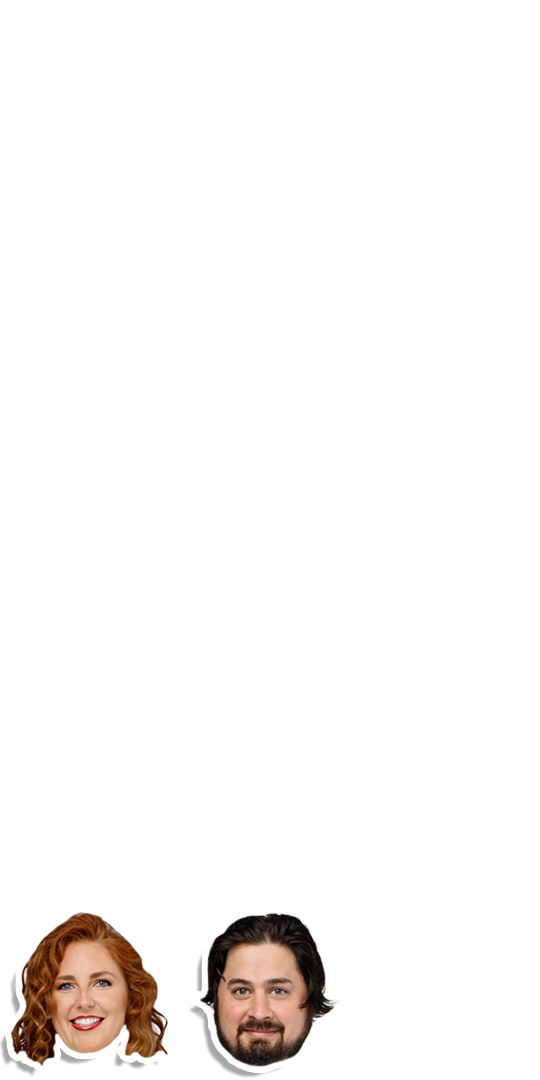
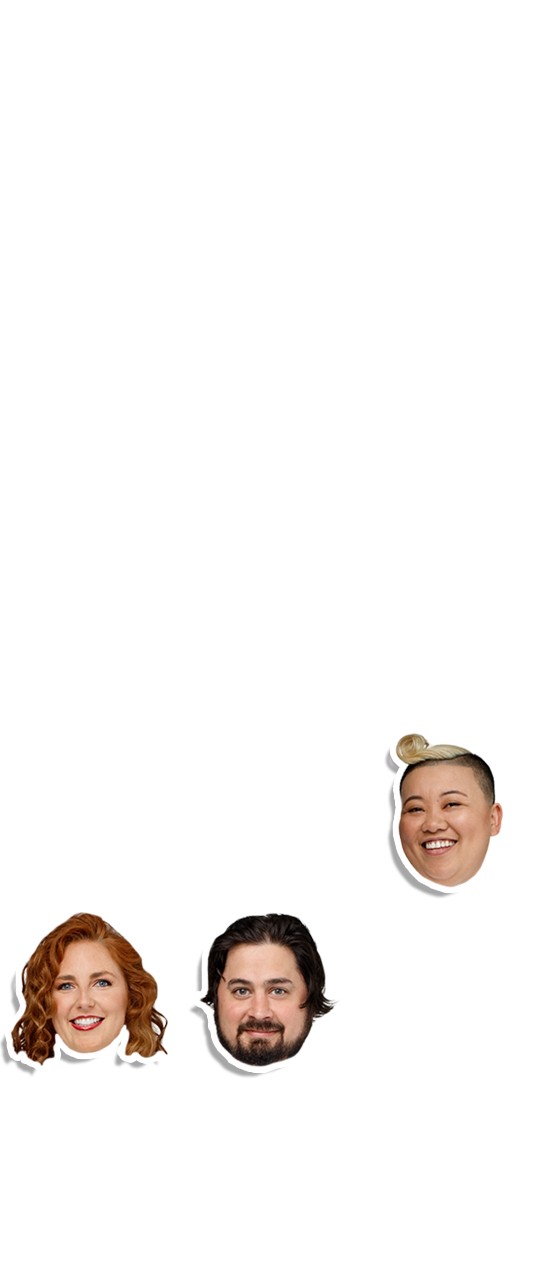
added new episode info

Changed region(s): [[0.0, 0.7028, 0.3259, 1.0], [0.3556, 0.7028, 0.6222, 1.0], [0.7111, 0.55, 0.9481, 0.7028]]

diff --git a/css/main.css b/css/main.css
@@ -1,1 +1,1 @@
-html,body,div,span,applet,object,iframe,h1,h2,h3,h4,h5,h6,p,blockquote,pre,a,abbr,acronym,address,big,cite,code,del,dfn,em,img,ins,kbd,q,s,samp,small,strike,strong,sub,sup,tt,var,b,u,i,center,dl,dt,dd,ol,ul,li,fieldset,form,label,legend,table,caption,tbody,tfoot,thead,tr,th,td,article,aside,canvas,details,embed,figure,figcaption,footer,header,hgroup,menu,nav,output,ruby,section,summary,time,mark,audio,video{margin:0;padding:0;border:0;font-size:100%;font:inherit;vertical-align:baseline}article,aside,details,figcaption,figure,footer,header,hgroup,menu,nav,section{display:block}body{line-height:1}ol,ul{list-style:none}blockquote,q{quotes:none}blockquote:before,blockquote:after,q:before,q:after{content:'';content:none}table{border-collapse:collapse;border-spacing:0}*,*:after,*:before{-moz-box-sizing:border-box;-webkit-box-sizing:border-box;box-sizing:border-box}html{font-size:100%;-webkit-text-size-adjust:none}body{text-rendering:optimizeLegibility;-webkit-font-smoothing:antialiased;font-family:'Helvetica Neue',Helvetica,Arial,sans-serif;font-size:18px;line-height:1.4;color:white;background:#333}::-moz-selection{background-color:#ba55d3;color:white}::selection{background-color:#ba55d3;color:white}h1,p{margin-bottom:20px}h1{font-weight:bold}a{display:inline-block;text-decoration:none;color:#0ff}p a{border-bottom:1px dotted transparent;}p a:hover{border-bottom:1px dotted #0ff}p{margin:0 0 20px}em{font-style:italic}img:not(.avatar){width:100%;max-width:100%}.footnote{font-size:14px;color:rgba(255,255,255,0.6)}.cf:before,.grid:before,.cf:after,.grid:after{content:" ";display:table}.cf:after,.grid:after{clear:both}.nav-main{height:45px;position:relative;background:#333;}.nav-main a,.nav-main label{color:white}.nav-main .nav-home{margin:10px 20px;float:left}.nav-main input.menu-toggle{visibility:hidden;position:absolute;left:-100%}.nav-main label{padding:10px 20px;float:right;background:#800080;border-left:1px solid rgba(255,255,255,0.2);cursor:pointer}.nav-main .nav-seasons{display:none;position:absolute;top:45px;left:0;z-index:100}.nav-main .menu-toggle:checked ~ .nav-seasons{display:block}.nav-main .nav-seasons{background-image:linear-gradient(to right,#4682b4,#c71585)}.nav-seasons{width:100%;background-image:linear-gradient(to right,#4682b4,#008b8b);border-top:1px solid rgba(255,255,255,0.3);border-bottom:1px solid rgba(255,255,255,0.3);box-shadow:0 3px 3px rgba(0,0,0,0.2);}.nav-seasons li{float:left;border-right:1px solid rgba(255,255,255,0.3);}.nav-seasons li a{padding:10px;display:block;color:white;}.nav-seasons li a:hover{background:rgba(0,0,0,0.1)}.nav-seasons li span{display:block}.nav-seasons li span:first-of-type{font-size:24px;font-weight:bold}.nav-seasons li span:nth-of-type(2){font-size:15px}@media screen and (max-width:400px){.nav-seasons li{width:25%;}.nav-seasons li:nth-child(-n+12){border-bottom:1px solid rgba(255,255,255,0.3)}.nav-seasons li:nth-child(4),.nav-seasons li:nth-child(8),.nav-seasons li:nth-child(12){border-right:none}}@media screen and (min-width:401px) and (max-width:650px){.nav-seasons li{width:20%;}.nav-seasons li:nth-child(-n+10){border-bottom:1px solid rgba(255,255,255,0.3)}.nav-seasons li:nth-child(5),.nav-seasons li:nth-child(10){border-right:none}}@media screen and (min-width:651px) and (max-width:1030px){.nav-seasons li{width:14.28%;}.nav-seasons li:nth-child(-n+7){border-bottom:1px solid rgba(255,255,255,0.3)}.nav-seasons li:nth-child(7){border-right:none}}@media screen and (min-width:1031px){.nav-seasons li{width:7.69%;}.nav-seasons li:last-child{border-right:none}}@media screen and (max-width:700px){.grid{padding-bottom:40px}}@media screen and (min-width:701px){.grid-item{margin:0 0 30px;padding:0 15px;float:left}.grid-sm-1{width:100%}.grid-sm-2{width:50%}.grid-sm-3{width:33.33%}}@media screen and (min-width:1001px){.grid-item{margin:0 0 50px;padding:0 25px}.grid-lg-2{width:50%}.grid-lg-3{width:33.33%}.grid-lg-3-1{width:66.66%}.grid-lg-4{width:25%}.grid-lg-5{width:20%}}.intro{margin:0 auto 30px;padding:30px 15px;background:rgba(0,0,0,0.1);text-align:center;}.intro h1{font-size:45px;}.intro h1 span{display:block}.intro h1 span:last-child{font-size:30px}.intro h2{margin-bottom:20px;font-size:24px}.intro p{max-width:500px;margin-left:auto;margin-right:auto}@media screen and (max-width:500px){.intro h1{font-size:35px;}.intro h1 span:last-child{font-size:20px}}@media screen and (min-width:701px) and (max-width:1000px){.intro{margin-bottom:60px}}@media screen and (min-width:1001px){.intro{margin-bottom:100px}}@media screen and (min-width:701px){.avatar{width:90px;height:90px}}@media screen and (max-width:700px){.avatar{width:70px;height:70px}}.icon{background:no-repeat left top;}.icon.woman{background-image:url("../images/woman.svg")}.icon.man{background-image:url("../images/man.svg")}.stat .number{position:relative;font-weight:bold;}.stat .number span{display:inline-block}.stat .number span + span{margin-left:15px}.stat .number .roster{padding-left:50px;position:absolute;right:0;}.stat .number .roster .avatar{float:right}.stat .name{margin-left:10px;display:inline-block;position:absolute;background:rgba(0,0,0,0.2);border-radius:3px;font-weight:normal;line-height:1;}.stat .name .avatar{display:block;position:absolute}@media screen and (max-width:700px){.stat:not(.person){padding:10px 0;border-bottom:1px solid rgba(255,255,255,0.5);}.stat:not(.person) h2{padding-top:10px;float:left}.stat:not(.person) .number{text-align:right;font-size:30px}.stat:not(.person) .woman,.stat:not(.person) .man{background-position:left 9px;background-size:auto 23px;padding-left:23px}.stat.person h2{padding:20px 0 5px;border-bottom:1px solid rgba(255,255,255,0.5)}.stat.person .number{font-size:55px;}.stat.person .number .roster{top:8px}.stat.person .name{padding:8px 40px 8px 10px;top:25px;right:30px;font-size:15px;}.stat.person .name .avatar{top:-15px;right:-35px}}@media screen and (min-width:701px){.stat h2{border-bottom:1px solid rgba(255,255,255,0.5)}.stat .number{font-size:85px;}.stat .number .roster{top:15px}.stat .name{padding:8px 45px 6px 10px;top:50px;right:40px;font-size:16px;}.stat .name .avatar{top:-32px;right:-45px}.stat .woman,.stat .man{background-position:left center;background-size:auto 50px;padding-left:40px}}.featured{padding:30px 15px 20px;background:rgba(0,0,0,0.1);text-align:center;clear:left;}.featured .number,.featured .phrase{font-weight:bold}.featured .phrase{margin-top:5px;margin-bottom:20px;font-size:40px;line-height:1.2}.featured.restaurant-wars .avatar{margin-bottom:15px}.featured.phrase-list{background:rgba(255,255,255,0.1);border-top:1px solid rgba(255,255,255,0.2);border-bottom:1px solid rgba(255,255,255,0.2);}.featured.phrase-list .phrase{margin-bottom:40px}.featured.phrase-list p{margin-bottom:8px;padding:5px 45px 5px 10px;position:relative;background:rgba(0,0,0,0.05);border-radius:3px;}.featured.phrase-list p span{position:absolute;top:50%;-webkit-transform:translateY(-50%);-moz-transform:translateY(-50%);transform:translateY(-50%);right:10px;font-size:12px;font-weight:bold}@media screen and (max-width:700px){.featured{margin:30px 0;}.featured .number{font-size:40px}.featured .phrase{font-size:25px}.featured.phrase-list .grid-item{margin-bottom:0}}@media screen and (min-width:701px){.featured{margin:0 0 80px;}.featured .number{font-size:85px}.featured.phrase-list .grid-item{margin-bottom:20px}}.roster .avatar{margin:0 -5px;position:relative;z-index:2}.roster .winner{display:inline-block;position:relative;}.roster .winner:before{width:100%;display:block;position:absolute;left:0;content:'WINNER!';z-index:1;font-size:11px;font-weight:bold;letter-spacing:1px;color:white}h2 + .roster{margin-top:15px}@media screen and (max-width:390px){.stat.roster-lg{min-height:190px}}@media screen and (max-width:700px){.roster .winner:before{top:75px}}@media screen and (min-width:701px){.roster .winner:before{top:92px}}@media screen and (min-width:701px) and (max-width:1000px){.stat.roster-lg{min-height:240px}}.ranking{list-style:none;}.ranking li{width:100%;margin:0 0 15px;padding:25px 0;padding-left:60px;position:relative;background-image:linear-gradient(to right,rgba(0,0,0,0) 20px,rgba(0,0,0,0.2) 20px);border-radius:0 3px 3px 0;}.ranking li .chef{width:90px;height:90px;position:absolute;top:-10px;background:no-repeat;background-size:270px auto}.ranking li:nth-child(1) .chef{background-position:0 0}.ranking li:nth-child(2) .chef{background-position:-90px 0}.ranking li:nth-child(3) .chef{background-position:-180px 0}.ranking li:nth-child(4) .chef{background-position:0 -90px}.ranking li:nth-child(5) .chef{background-position:-90px -90px}.ranking li:nth-child(6) .chef{background-position:-180px -90px}.ranking li:nth-child(7) .chef{background-position:0 -180px}.ranking li:nth-child(8) .chef{background-position:-90px -180px}.ranking li:nth-child(9) .chef{background-position:-180px -180px}.ranking li:nth-child(10) .chef{background-position:0 -270px}.ranking li:nth-child(11) .chef{background-position:-90px -270px}.ranking li:nth-child(12) .chef{background-position:-180px -270px}.ranking li:nth-child(13) .chef{background-position:0 -360px}.ranking li:nth-child(14) .chef{background-position:-90px -360px}.ranking li:nth-child(15) .chef{background-position:-180px -360px}.ranking li:nth-child(16) .chef{background-position:0 -450px}.ranking li:nth-child(17) .chef{background-position:-90px -450px}.ranking li:nth-child(18) .chef{background-position:-180px -450px}.ranking li:nth-child(19) .chef{background-position:0 -540px}.ranking li:nth-child(20) .chef{background-position:-90px -540px}.ranking li span{display:block;position:relative;}.ranking li span:after{padding:7px 10px;position:absolute;right:5px;top:-6px;font-weight:bold}.ranking li:nth-child(2) span:after{content:'2nd'}.ranking li:nth-child(2) span:after{content:'2nd'}.ranking li:nth-child(3) span:after{content:'3rd'}.ranking li:nth-child(4) span:after{content:'4th'}.ranking li:nth-child(5) span:after{content:'5th'}.ranking li:nth-child(6) span:after{content:'6th'}.ranking li:nth-child(7) span:after{content:'7th'}.ranking li:nth-child(8) span:after{content:'8th'}.ranking li:nth-child(9) span:after{content:'9th'}.ranking li:nth-child(10) span:after{content:'10th'}.ranking li:nth-child(11) span:after{content:'11th'}.ranking li:nth-child(12) span:after{content:'12th'}.ranking li:nth-child(13) span:after{content:'13th'}.ranking li:nth-child(14) span:after{content:'14th'}.ranking li:nth-child(15) span:after{content:'15th'}.ranking li:nth-child(16) span:after{content:'16th'}.ranking li:nth-child(17) span:after{content:'17th'}.ranking li:nth-child(18) span:after{content:'18th'}.ranking li:nth-child(19) span:after{content:'19th'}.ranking li:nth-child(20) span:after{content:'20th'}.ranking li:first-child span:before,.ranking li.fan-fave span:before{width:0;height:0;content:'';position:absolute;right:-10px;top:25px;border-style:solid;border-width:10px 10px 0 0}.ranking li:first-child span:after,.ranking li.fan-fave span:after{right:-10px;font-size:16px;line-height:1}.ranking li:first-child span:before{border-color:#daa520 transparent transparent transparent}.ranking li:first-child span:after{content:'Winner';background:#ffd700;color:#a52a2a}.ranking li.fan-fave span:before{border-color:#4b0082 transparent transparent transparent}.ranking li.fan-fave span:after{content:'Fan Fave';background:#9932cc;color:white}.ranking.current li:nth-child(-n+15){display:none}@media screen and (max-width:700px){.ranking li{padding:15px 0;padding-left:55px;}.ranking li .chef{left:-15px;width:70px;height:70px;background-size:210px auto}.ranking li:nth-child(1) .chef{background-position:0 0}.ranking li:nth-child(2) .chef{background-position:-70px 0}.ranking li:nth-child(3) .chef{background-position:-140px 0}.ranking li:nth-child(4) .chef{background-position:0 -70px}.ranking li:nth-child(5) .chef{background-position:-70px -70px}.ranking li:nth-child(6) .chef{background-position:-140px -70px}.ranking li:nth-child(7) .chef{background-position:0 -140px}.ranking li:nth-child(8) .chef{background-position:-70px -140px}.ranking li:nth-child(9) .chef{background-position:-140px -140px}.ranking li:nth-child(10) .chef{background-position:0 -210px}.ranking li:nth-child(11) .chef{background-position:-70px -210px}.ranking li:nth-child(12) .chef{background-position:-140px -210px}.ranking li:nth-child(13) .chef{background-position:0 -280px}.ranking li:nth-child(14) .chef{background-position:-70px -280px}.ranking li:nth-child(15) .chef{background-position:-140px -280px}.ranking li:nth-child(16) .chef{background-position:0 -350px}.ranking li:nth-child(17) .chef{background-position:-70px -350px}.ranking li:nth-child(18) .chef{background-position:-140px -350px}.ranking li:nth-child(19) .chef{background-position:0 -420px}.ranking li:nth-child(20) .chef{background-position:-70px -420px}}@media screen and (min-width:701px){.ranking li{padding-left:60px;}.ranking li .chef{left:-30px}}footer{padding:40px 20px;background:#333;text-align:center;}footer p{margin-bottom:20px}.p0{padding:0}.m0{margin:0}.center{text-align:center}.left{text-align:left}.bg-dark{background:rgba(0,0,0,0.1)}.bg-light{background:rgba(255,255,255,0.1)}.season{background:linear-gradient(175deg,#008b8b 0,#c71585 100%);padding:20px;}.season.home{background:linear-gradient(170deg,#4682b4 0,#008b8b 50%,#c71585 100%)}.season.glossary,.season.four-oh-four{background:linear-gradient(170deg,#4682b4 0,#008b8b 50%)}.season-01 .ranking li .chef{background-image:url("/images/season-01.png")}.season-02 .ranking li .chef{background-image:url("/images/season-02.png")}.season-03 .ranking li .chef{background-image:url("/images/season-03.png")}.season-04 .ranking li .chef{background-image:url("/images/season-04.png")}.season-05 .ranking li .chef{background-image:url("/images/season-05.png")}.season-06 .ranking li .chef{background-image:url("/images/season-06.png")}.season-07 .ranking li .chef{background-image:url("/images/season-07.png")}.season-08 .ranking li .chef{background-image:url("/images/season-08.png")}.season-09 .ranking li .chef{background-image:url("/images/season-09.png")}.season-10 .ranking li .chef{background-image:url("/images/season-10.png")}.season-11 .ranking li .chef{background-image:url("/images/season-11.png")}.season-12 .ranking li .chef{background-image:url("/images/season-12.png")}.season-13 .ranking li .chef{background-image:url("/images/season-13.png")}.glossary-list{max-width:550px;margin:0 auto 60px;}.glossary-list dt{margin-bottom:10px;font-weight:bold;font-size:20px}.glossary-list dd{margin-bottom:40px}.glossary-list p{margin-left:20px;margin-bottom:20px}.glossary-list ol{list-style:decimal;padding-left:45px;}.glossary-list ol li{margin-bottom:10px}@media screen and (min-width:1001px){.glossary-list{margin-top:-40px}}
+html,body,div,span,applet,object,iframe,h1,h2,h3,h4,h5,h6,p,blockquote,pre,a,abbr,acronym,address,big,cite,code,del,dfn,em,img,ins,kbd,q,s,samp,small,strike,strong,sub,sup,tt,var,b,u,i,center,dl,dt,dd,ol,ul,li,fieldset,form,label,legend,table,caption,tbody,tfoot,thead,tr,th,td,article,aside,canvas,details,embed,figure,figcaption,footer,header,hgroup,menu,nav,output,ruby,section,summary,time,mark,audio,video{margin:0;padding:0;border:0;font-size:100%;font:inherit;vertical-align:baseline}article,aside,details,figcaption,figure,footer,header,hgroup,menu,nav,section{display:block}body{line-height:1}ol,ul{list-style:none}blockquote,q{quotes:none}blockquote:before,blockquote:after,q:before,q:after{content:'';content:none}table{border-collapse:collapse;border-spacing:0}*,*:after,*:before{-moz-box-sizing:border-box;-webkit-box-sizing:border-box;box-sizing:border-box}html{font-size:100%;-webkit-text-size-adjust:none}body{text-rendering:optimizeLegibility;-webkit-font-smoothing:antialiased;font-family:'Helvetica Neue',Helvetica,Arial,sans-serif;font-size:18px;line-height:1.4;color:white;background:#333}::-moz-selection{background-color:#ba55d3;color:white}::selection{background-color:#ba55d3;color:white}h1,p{margin-bottom:20px}h1{font-weight:bold}a{display:inline-block;text-decoration:none;color:#0ff}p a{border-bottom:1px dotted transparent;}p a:hover{border-bottom:1px dotted #0ff}p{margin:0 0 20px}em{font-style:italic}img:not(.avatar){width:100%;max-width:100%}.footnote{font-size:14px;color:rgba(255,255,255,0.6)}.cf:before,.grid:before,.cf:after,.grid:after{content:" ";display:table}.cf:after,.grid:after{clear:both}.nav-main{height:45px;position:relative;background:#333;}.nav-main a,.nav-main label{color:white}.nav-main .nav-home{margin:10px 20px;float:left}.nav-main input.menu-toggle{visibility:hidden;position:absolute;left:-100%}.nav-main label{padding:10px 20px;float:right;background:#800080;border-left:1px solid rgba(255,255,255,0.2);cursor:pointer}.nav-main .nav-seasons{display:none;position:absolute;top:45px;left:0;z-index:100}.nav-main .menu-toggle:checked ~ .nav-seasons{display:block}.nav-main .nav-seasons{background-image:linear-gradient(to right,#4682b4,#c71585)}.nav-seasons{width:100%;background-image:linear-gradient(to right,#4682b4,#008b8b);border-top:1px solid rgba(255,255,255,0.3);border-bottom:1px solid rgba(255,255,255,0.3);box-shadow:0 3px 3px rgba(0,0,0,0.2);}.nav-seasons li{float:left;border-right:1px solid rgba(255,255,255,0.3);}.nav-seasons li a{padding:10px;display:block;color:white;}.nav-seasons li a:hover{background:rgba(0,0,0,0.1)}.nav-seasons li span{display:block}.nav-seasons li span:first-of-type{font-size:24px;font-weight:bold}.nav-seasons li span:nth-of-type(2){font-size:15px}@media screen and (max-width:400px){.nav-seasons li{width:25%;}.nav-seasons li:nth-child(-n+12){border-bottom:1px solid rgba(255,255,255,0.3)}.nav-seasons li:nth-child(4),.nav-seasons li:nth-child(8),.nav-seasons li:nth-child(12){border-right:none}}@media screen and (min-width:401px) and (max-width:650px){.nav-seasons li{width:20%;}.nav-seasons li:nth-child(-n+10){border-bottom:1px solid rgba(255,255,255,0.3)}.nav-seasons li:nth-child(5),.nav-seasons li:nth-child(10){border-right:none}}@media screen and (min-width:651px) and (max-width:1030px){.nav-seasons li{width:14.28%;}.nav-seasons li:nth-child(-n+7){border-bottom:1px solid rgba(255,255,255,0.3)}.nav-seasons li:nth-child(7){border-right:none}}@media screen and (min-width:1031px){.nav-seasons li{width:7.69%;}.nav-seasons li:last-child{border-right:none}}@media screen and (max-width:700px){.grid{padding-bottom:40px}}@media screen and (min-width:701px){.grid-item{margin:0 0 30px;padding:0 15px;float:left}.grid-sm-1{width:100%}.grid-sm-2{width:50%}.grid-sm-3{width:33.33%}}@media screen and (min-width:1001px){.grid-item{margin:0 0 50px;padding:0 25px}.grid-lg-2{width:50%}.grid-lg-3{width:33.33%}.grid-lg-3-1{width:66.66%}.grid-lg-4{width:25%}.grid-lg-5{width:20%}}.intro{margin:0 auto 30px;padding:30px 15px;background:rgba(0,0,0,0.1);text-align:center;}.intro h1{font-size:45px;}.intro h1 span{display:block}.intro h1 span:last-child{font-size:30px}.intro h2{margin-bottom:20px;font-size:24px}.intro p{max-width:500px;margin-left:auto;margin-right:auto}@media screen and (max-width:500px){.intro h1{font-size:35px;}.intro h1 span:last-child{font-size:20px}}@media screen and (min-width:701px) and (max-width:1000px){.intro{margin-bottom:60px}}@media screen and (min-width:1001px){.intro{margin-bottom:100px}}@media screen and (min-width:701px){.avatar{width:90px;height:90px}}@media screen and (max-width:700px){.avatar{width:70px;height:70px}}.icon{background:no-repeat left top;}.icon.woman{background-image:url("../images/woman.svg")}.icon.man{background-image:url("../images/man.svg")}.stat .number{position:relative;font-weight:bold;}.stat .number span{display:inline-block}.stat .number span + span{margin-left:15px}.stat .number .roster{padding-left:50px;position:absolute;right:0;}.stat .number .roster .avatar{float:right}.stat .name{margin-left:10px;display:inline-block;position:absolute;background:rgba(0,0,0,0.2);border-radius:3px;font-weight:normal;line-height:1;}.stat .name .avatar{display:block;position:absolute}@media screen and (max-width:700px){.stat:not(.person){padding:10px 0;border-bottom:1px solid rgba(255,255,255,0.5);}.stat:not(.person) h2{padding-top:10px;float:left}.stat:not(.person) .number{text-align:right;font-size:30px}.stat:not(.person) .woman,.stat:not(.person) .man{background-position:left 9px;background-size:auto 23px;padding-left:23px}.stat.person h2{padding:20px 0 5px;border-bottom:1px solid rgba(255,255,255,0.5)}.stat.person .number{font-size:55px;}.stat.person .number .roster{top:8px}.stat.person .name{padding:8px 40px 8px 10px;top:25px;right:30px;font-size:15px;}.stat.person .name .avatar{top:-15px;right:-35px}}@media screen and (min-width:701px){.stat h2{border-bottom:1px solid rgba(255,255,255,0.5)}.stat .number{font-size:85px;}.stat .number .roster{top:15px}.stat .name{padding:8px 45px 6px 10px;top:50px;right:40px;font-size:16px;}.stat .name .avatar{top:-32px;right:-45px}.stat .woman,.stat .man{background-position:left center;background-size:auto 50px;padding-left:40px}}.featured{padding:30px 15px 20px;background:rgba(0,0,0,0.1);text-align:center;clear:left;}.featured .number,.featured .phrase{font-weight:bold}.featured .phrase{margin-top:5px;margin-bottom:20px;font-size:40px;line-height:1.2}.featured.restaurant-wars .avatar{margin-bottom:15px}.featured.phrase-list{background:rgba(255,255,255,0.1);border-top:1px solid rgba(255,255,255,0.2);border-bottom:1px solid rgba(255,255,255,0.2);}.featured.phrase-list .phrase{margin-bottom:40px}.featured.phrase-list p{margin-bottom:8px;padding:5px 45px 5px 10px;position:relative;background:rgba(0,0,0,0.05);border-radius:3px;}.featured.phrase-list p span{position:absolute;top:50%;-webkit-transform:translateY(-50%);-moz-transform:translateY(-50%);transform:translateY(-50%);right:10px;font-size:12px;font-weight:bold}@media screen and (max-width:700px){.featured{margin:30px 0;}.featured .number{font-size:40px}.featured .phrase{font-size:25px}.featured.phrase-list .grid-item{margin-bottom:0}}@media screen and (min-width:701px){.featured{margin:0 0 80px;}.featured .number{font-size:85px}.featured.phrase-list .grid-item{margin-bottom:20px}}.roster .avatar{margin:0 -5px;position:relative;z-index:2}.roster .winner{display:inline-block;position:relative;}.roster .winner:before{width:100%;display:block;position:absolute;left:0;content:'WINNER!';z-index:1;font-size:11px;font-weight:bold;letter-spacing:1px;color:white}h2 + .roster{margin-top:15px}@media screen and (max-width:390px){.stat.roster-lg{min-height:190px}}@media screen and (max-width:700px){.roster .winner:before{top:75px}}@media screen and (min-width:701px){.roster .winner:before{top:92px}}@media screen and (min-width:701px) and (max-width:1000px){.stat.roster-lg{min-height:240px}}.ranking{list-style:none;}.ranking li{width:100%;margin:0 0 15px;padding:25px 0;padding-left:60px;position:relative;background-image:linear-gradient(to right,rgba(0,0,0,0) 20px,rgba(0,0,0,0.2) 20px);border-radius:0 3px 3px 0;font-size:16px;}.ranking li .chef{width:90px;height:90px;position:absolute;top:-10px;background:no-repeat;background-size:270px auto}.ranking li:nth-child(1) .chef{background-position:0 0}.ranking li:nth-child(2) .chef{background-position:-90px 0}.ranking li:nth-child(3) .chef{background-position:-180px 0}.ranking li:nth-child(4) .chef{background-position:0 -90px}.ranking li:nth-child(5) .chef{background-position:-90px -90px}.ranking li:nth-child(6) .chef{background-position:-180px -90px}.ranking li:nth-child(7) .chef{background-position:0 -180px}.ranking li:nth-child(8) .chef{background-position:-90px -180px}.ranking li:nth-child(9) .chef{background-position:-180px -180px}.ranking li:nth-child(10) .chef{background-position:0 -270px}.ranking li:nth-child(11) .chef{background-position:-90px -270px}.ranking li:nth-child(12) .chef{background-position:-180px -270px}.ranking li:nth-child(13) .chef{background-position:0 -360px}.ranking li:nth-child(14) .chef{background-position:-90px -360px}.ranking li:nth-child(15) .chef{background-position:-180px -360px}.ranking li:nth-child(16) .chef{background-position:0 -450px}.ranking li:nth-child(17) .chef{background-position:-90px -450px}.ranking li:nth-child(18) .chef{background-position:-180px -450px}.ranking li:nth-child(19) .chef{background-position:0 -540px}.ranking li:nth-child(20) .chef{background-position:-90px -540px}.ranking li span{padding-right:50px;display:block;position:relative;}.ranking li span:after{padding:7px 10px;position:absolute;right:5px;top:-6px;font-weight:bold}.ranking li:nth-child(2) span:after{content:'2nd'}.ranking li:nth-child(2) span:after{content:'2nd'}.ranking li:nth-child(3) span:after{content:'3rd'}.ranking li:nth-child(4) span:after{content:'4th'}.ranking li:nth-child(5) span:after{content:'5th'}.ranking li:nth-child(6) span:after{content:'6th'}.ranking li:nth-child(7) span:after{content:'7th'}.ranking li:nth-child(8) span:after{content:'8th'}.ranking li:nth-child(9) span:after{content:'9th'}.ranking li:nth-child(10) span:after{content:'10th'}.ranking li:nth-child(11) span:after{content:'11th'}.ranking li:nth-child(12) span:after{content:'12th'}.ranking li:nth-child(13) span:after{content:'13th'}.ranking li:nth-child(14) span:after{content:'14th'}.ranking li:nth-child(15) span:after{content:'15th'}.ranking li:nth-child(16) span:after{content:'16th'}.ranking li:nth-child(17) span:after{content:'17th'}.ranking li:nth-child(18) span:after{content:'18th'}.ranking li:nth-child(19) span:after{content:'19th'}.ranking li:nth-child(20) span:after{content:'20th'}.ranking li:first-child span:before,.ranking li.fan-fave span:before{width:0;height:0;content:'';position:absolute;right:-10px;top:25px;border-style:solid;border-width:10px 10px 0 0}.ranking li:first-child span:after,.ranking li.fan-fave span:after{right:-10px;font-size:16px;line-height:1}.ranking li:first-child span:before{border-color:#daa520 transparent transparent transparent}.ranking li:first-child span:after{content:'Winner';background:#ffd700;color:#a52a2a}.ranking li.fan-fave span:before{border-color:#4b0082 transparent transparent transparent}.ranking li.fan-fave span:after{content:'Fan Fave';background:#9932cc;color:white}.ranking.current li:nth-child(-n+14){display:none}@media screen and (max-width:700px){.ranking li{padding:15px 0;padding-left:55px;}.ranking li .chef{left:-15px;width:70px;height:70px;background-size:210px auto}.ranking li:nth-child(1) .chef{background-position:0 0}.ranking li:nth-child(2) .chef{background-position:-70px 0}.ranking li:nth-child(3) .chef{background-position:-140px 0}.ranking li:nth-child(4) .chef{background-position:0 -70px}.ranking li:nth-child(5) .chef{background-position:-70px -70px}.ranking li:nth-child(6) .chef{background-position:-140px -70px}.ranking li:nth-child(7) .chef{background-position:0 -140px}.ranking li:nth-child(8) .chef{background-position:-70px -140px}.ranking li:nth-child(9) .chef{background-position:-140px -140px}.ranking li:nth-child(10) .chef{background-position:0 -210px}.ranking li:nth-child(11) .chef{background-position:-70px -210px}.ranking li:nth-child(12) .chef{background-position:-140px -210px}.ranking li:nth-child(13) .chef{background-position:0 -280px}.ranking li:nth-child(14) .chef{background-position:-70px -280px}.ranking li:nth-child(15) .chef{background-position:-140px -280px}.ranking li:nth-child(16) .chef{background-position:0 -350px}.ranking li:nth-child(17) .chef{background-position:-70px -350px}.ranking li:nth-child(18) .chef{background-position:-140px -350px}.ranking li:nth-child(19) .chef{background-position:0 -420px}.ranking li:nth-child(20) .chef{background-position:-70px -420px}}@media screen and (min-width:701px){.ranking li{padding-left:60px;}.ranking li .chef{left:-30px}}footer{padding:40px 20px;background:#333;text-align:center;}footer p{margin-bottom:20px}.p0{padding:0}.m0{margin:0}.center{text-align:center}.left{text-align:left}.bg-dark{background:rgba(0,0,0,0.1)}.bg-light{background:rgba(255,255,255,0.1)}.season{background:linear-gradient(175deg,#008b8b 0,#c71585 100%);padding:20px;}.season.home{background:linear-gradient(170deg,#4682b4 0,#008b8b 50%,#c71585 100%)}.season.glossary,.season.four-oh-four{background:linear-gradient(170deg,#4682b4 0,#008b8b 50%)}.season-01 .ranking li .chef{background-image:url("/images/season-01.png")}.season-02 .ranking li .chef{background-image:url("/images/season-02.png")}.season-03 .ranking li .chef{background-image:url("/images/season-03.png")}.season-04 .ranking li .chef{background-image:url("/images/season-04.png")}.season-05 .ranking li .chef{background-image:url("/images/season-05.png")}.season-06 .ranking li .chef{background-image:url("/images/season-06.png")}.season-07 .ranking li .chef{background-image:url("/images/season-07.png")}.season-08 .ranking li .chef{background-image:url("/images/season-08.png")}.season-09 .ranking li .chef{background-image:url("/images/season-09.png")}.season-10 .ranking li .chef{background-image:url("/images/season-10.png")}.season-11 .ranking li .chef{background-image:url("/images/season-11.png")}.season-12 .ranking li .chef{background-image:url("/images/season-12.png")}.season-13 .ranking li .chef{background-image:url("/images/season-13.png")}.glossary-list{max-width:550px;margin:0 auto 60px;}.glossary-list dt{margin-bottom:10px;font-weight:bold;font-size:20px}.glossary-list dd{margin-bottom:40px}.glossary-list p{margin-left:20px;margin-bottom:20px}.glossary-list ol{list-style:decimal;padding-left:45px;}.glossary-list ol li{margin-bottom:10px}@media screen and (min-width:1001px){.glossary-list{margin-top:-40px}}

diff --git a/season-13/index.html b/season-13/index.html
@@ -82,7 +82,7 @@
             <div class="chef"></div><span></span>
           </li>
           <li>
-            <div class="chef"></div><span></span>
+            <div class="chef"></div><span>Frances Tariga-Weshnak</span>
           </li>
           <li>
             <div class="chef"></div><span>Renee Kelly</span>
@@ -98,32 +98,26 @@
           </div>
           <div class="stat grid-item grid-sm-1 grid-lg-2">
             <h2>Total Guest Judges</h2>
-            <div class="number">1</div>
+            <div class="number">3</div>
           </div>
           <div class="stat grid-item grid-sm-1 grid-lg-2">
             <h2>Total Challenges</h2>
-            <div class="number">3</div>
+            <div class="number">6</div>
           </div>
           <div class="stat grid-item grid-sm-1">
             <h2>Total Team Challenges</h2>
             <div class="number">2</div>
           </div>
-          <div class="stat person grid-item grid-sm-1">
+          <div class="stat person grid-item grid-sm-1 roster-lg">
             <h2>Most Quickfire Wins</h2>
             <div class="number">1
-              <div class="roster"><img src="/images/amar-santana.png" class="avatar"><img src="/images/frances-tariga-weshnak.png" class="avatar"><img src="/images/renee-kelly.png" class="avatar"></div>
+              <div class="roster"><img src="/images/giselle-wellman.png" class="avatar"><img src="/images/grayson-schmitz-s13.png" class="avatar"><img src="/images/amar-santana.png" class="avatar"><img src="/images/frances-tariga-weshnak.png" class="avatar"><img src="/images/renee-kelly.png" class="avatar"></div>
             </div>
           </div>
           <div class="stat person grid-item grid-sm-1">
             <h2>Most Elimination Wins</h2>
             <div class="number">1
-              <div class="roster"><img src="/images/jeremy-ford.png" class="avatar"><img src="/images/marjorie-meek-bradley.png" class="avatar"></div>
-            </div>
-          </div>
-          <div class="stat person grid-item grid-sm-1 roster-lg">
-            <h2>Most Overall Wins</h2>
-            <div class="number">1
-              <div class="roster"><img src="/images/amar-santana.png" class="avatar"><img src="/images/frances-tariga-weshnak.png" class="avatar"><img src="/images/renee-kelly.png" class="avatar"><img src="/images/jeremy-ford.png" class="avatar"><img src="/images/marjorie-meek-bradley.png" class="avatar"></div>
+              <div class="roster"><img src="/images/kwame-onwuachi.png" class="avatar"><img src="/images/marjorie-meek-bradley.png" class="avatar"><img src="/images/jeremy-ford.png" class="avatar"></div>
             </div>
           </div>
           <div class="featured relay-race">
@@ -145,7 +139,7 @@
           </div>
           <div class="stat person grid-item grid-sm-1">
             <h2>Best Last Chance Kitchen Streak</h2>
-            <div class="number">1
+            <div class="number">2
               <div class="name">Garret Fleming<img src="/images/garret-fleming.png" class="avatar"></div>
             </div>
           </div>

diff --git a/index.html b/index.html
@@ -63,7 +63,7 @@
         </div>
         <div class="stat grid-item grid-sm-2 grid-lg-3">
           <h2>Total Guest Judges</h2>
-          <div class="number">155</div>
+          <div class="number">156</div>
         </div>
         <div class="stat person grid-item grid-sm-2 grid-lg-3">
           <h2>Most Frequent Guest Judge</h2>
@@ -81,7 +81,7 @@
         <div class="grid-item grid-sm-1 grid-lg-2 p0 m0">
           <div class="stat grid-item grid-sm-2">
             <h2>Total Cities</h2>
-            <div class="number">23</div>
+            <div class="number">24</div>
           </div>
           <div class="stat grid-item grid-sm-2">
             <h2>Total Countries</h2>

diff --git a/glossary/index.html b/glossary/index.html
@@ -77,7 +77,7 @@
         <dt>Challenge</dt>
         <dd>
           <ol>
-            <li>A Quickfire or Elimination Challenge in an episode.</li>
+            <li>A Quickfire, Sudden Death Cook-Off, or Elimination Challenge in an episode.</li>
             <li>With the exception of Sudden Death Cook-offs, does not include challenges where the chefs must make another dish to avoid elimination.</li>
             <li>Does not include qualifying challenges/episodes where chefs compete for a spot on the show (e.g. Episodes 1 and 2 of Top Chef Texas).</li>
             <li>Although called out separately, does not include challenges from Last Chance Kitchen.</li>
